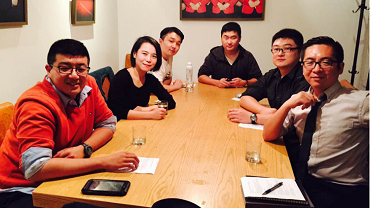
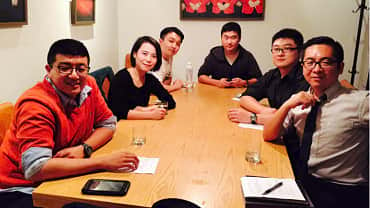
优化图片

diff --git a/index.html b/index.html
@@ -193,7 +193,7 @@
                     <div class="row">
                         <div class="col-lg-5 col-md-5 col-sm-5 ipad_img_in" data-appear-top-offset="-200"
                              data-animated="fadeInRight">
-                            <img class="ipad_img1" src="images/whatdowedo/wdwd1.png" alt=""/>
+                            <img class="ipad_img1" src="images/whatdowedo/wdwd1.jpg" alt=""/>
                         </div>
 
                         <div class="col-lg-7 col-md-7 col-sm-7" data-appear-top-offset="-200"
